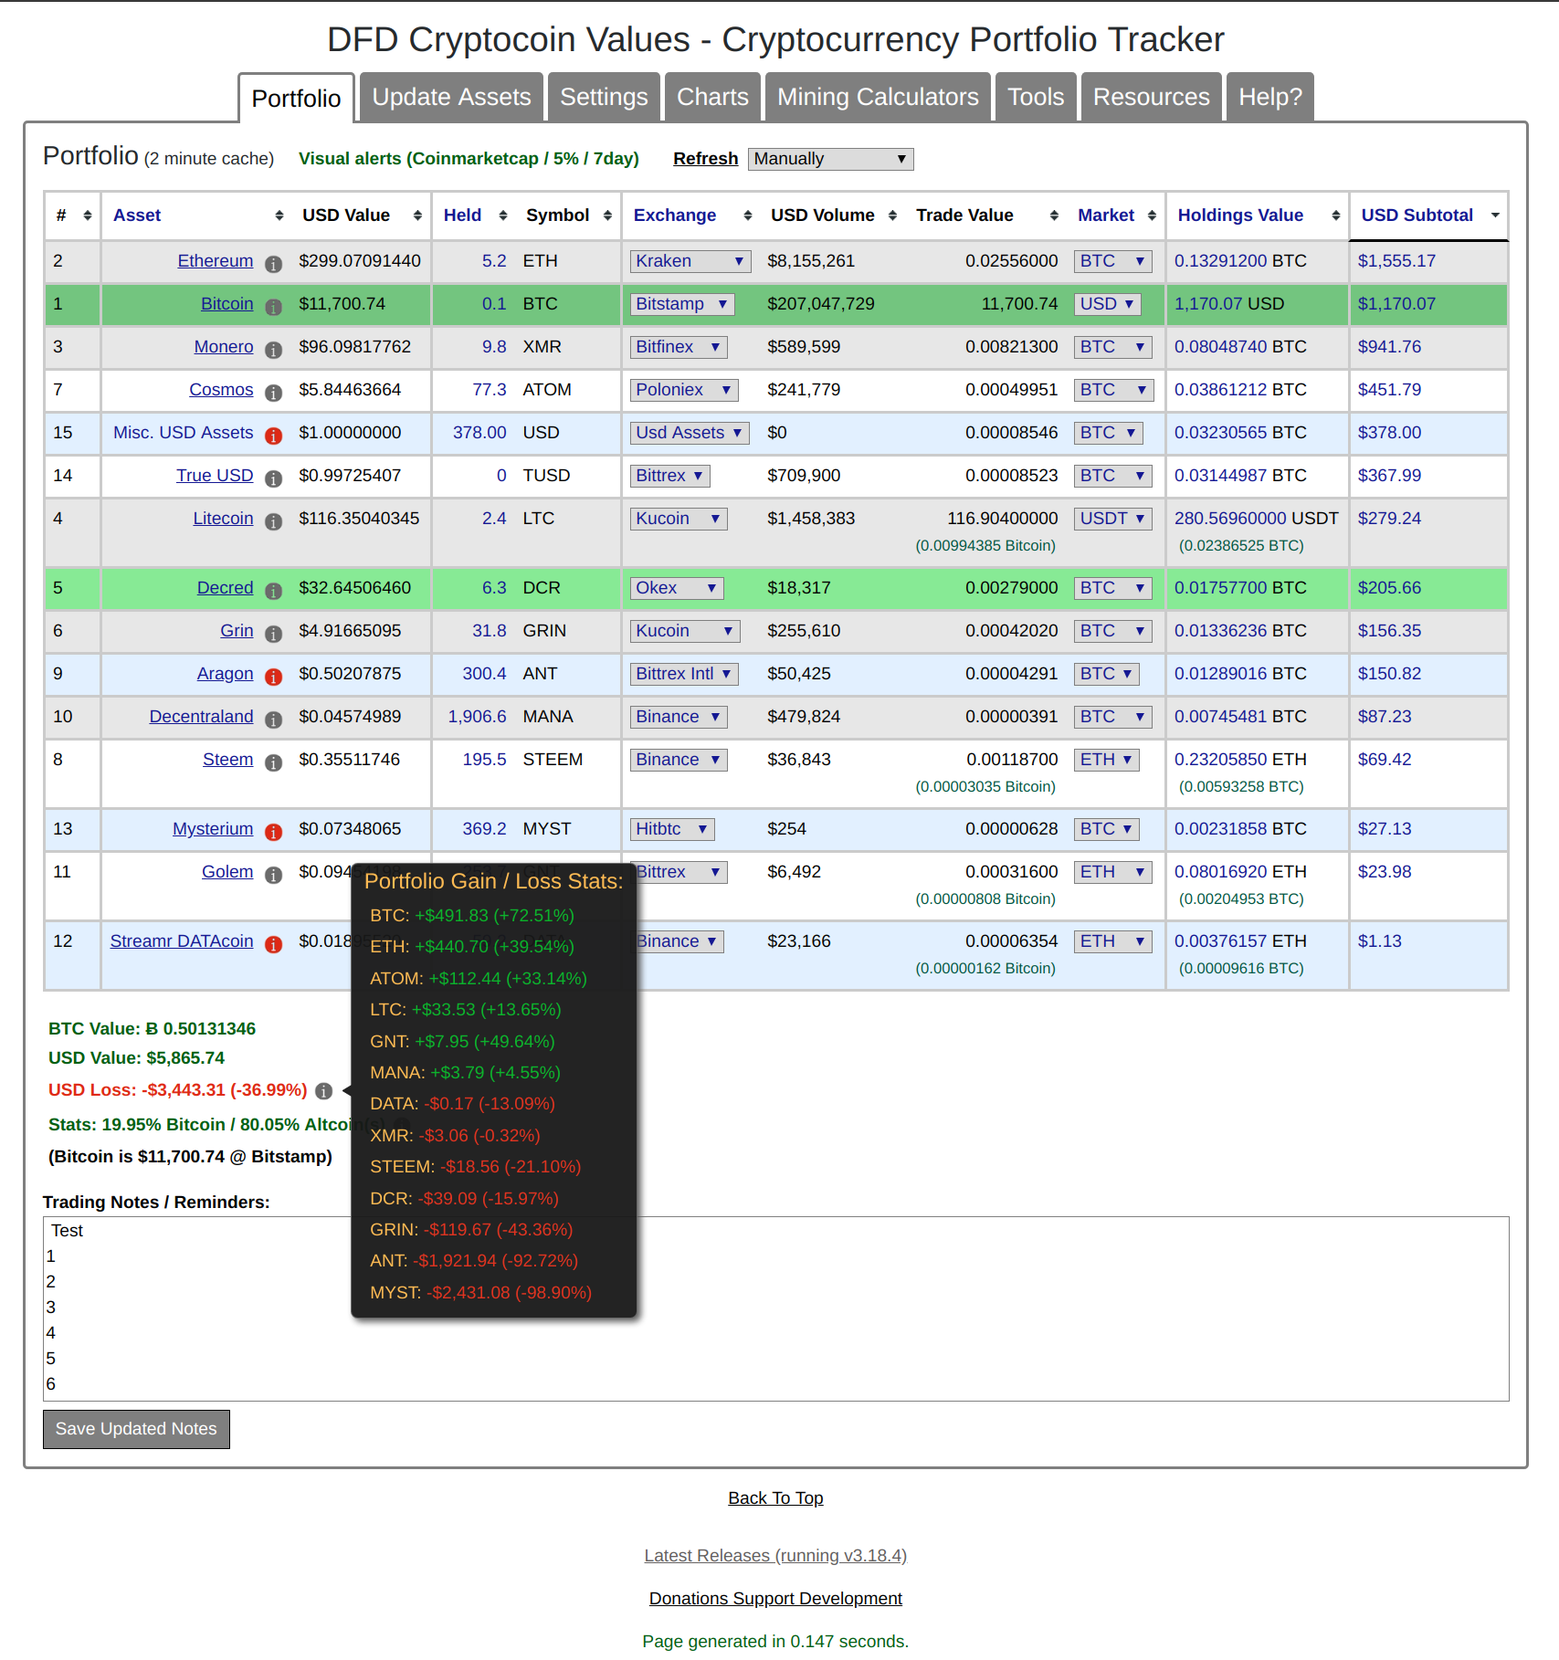
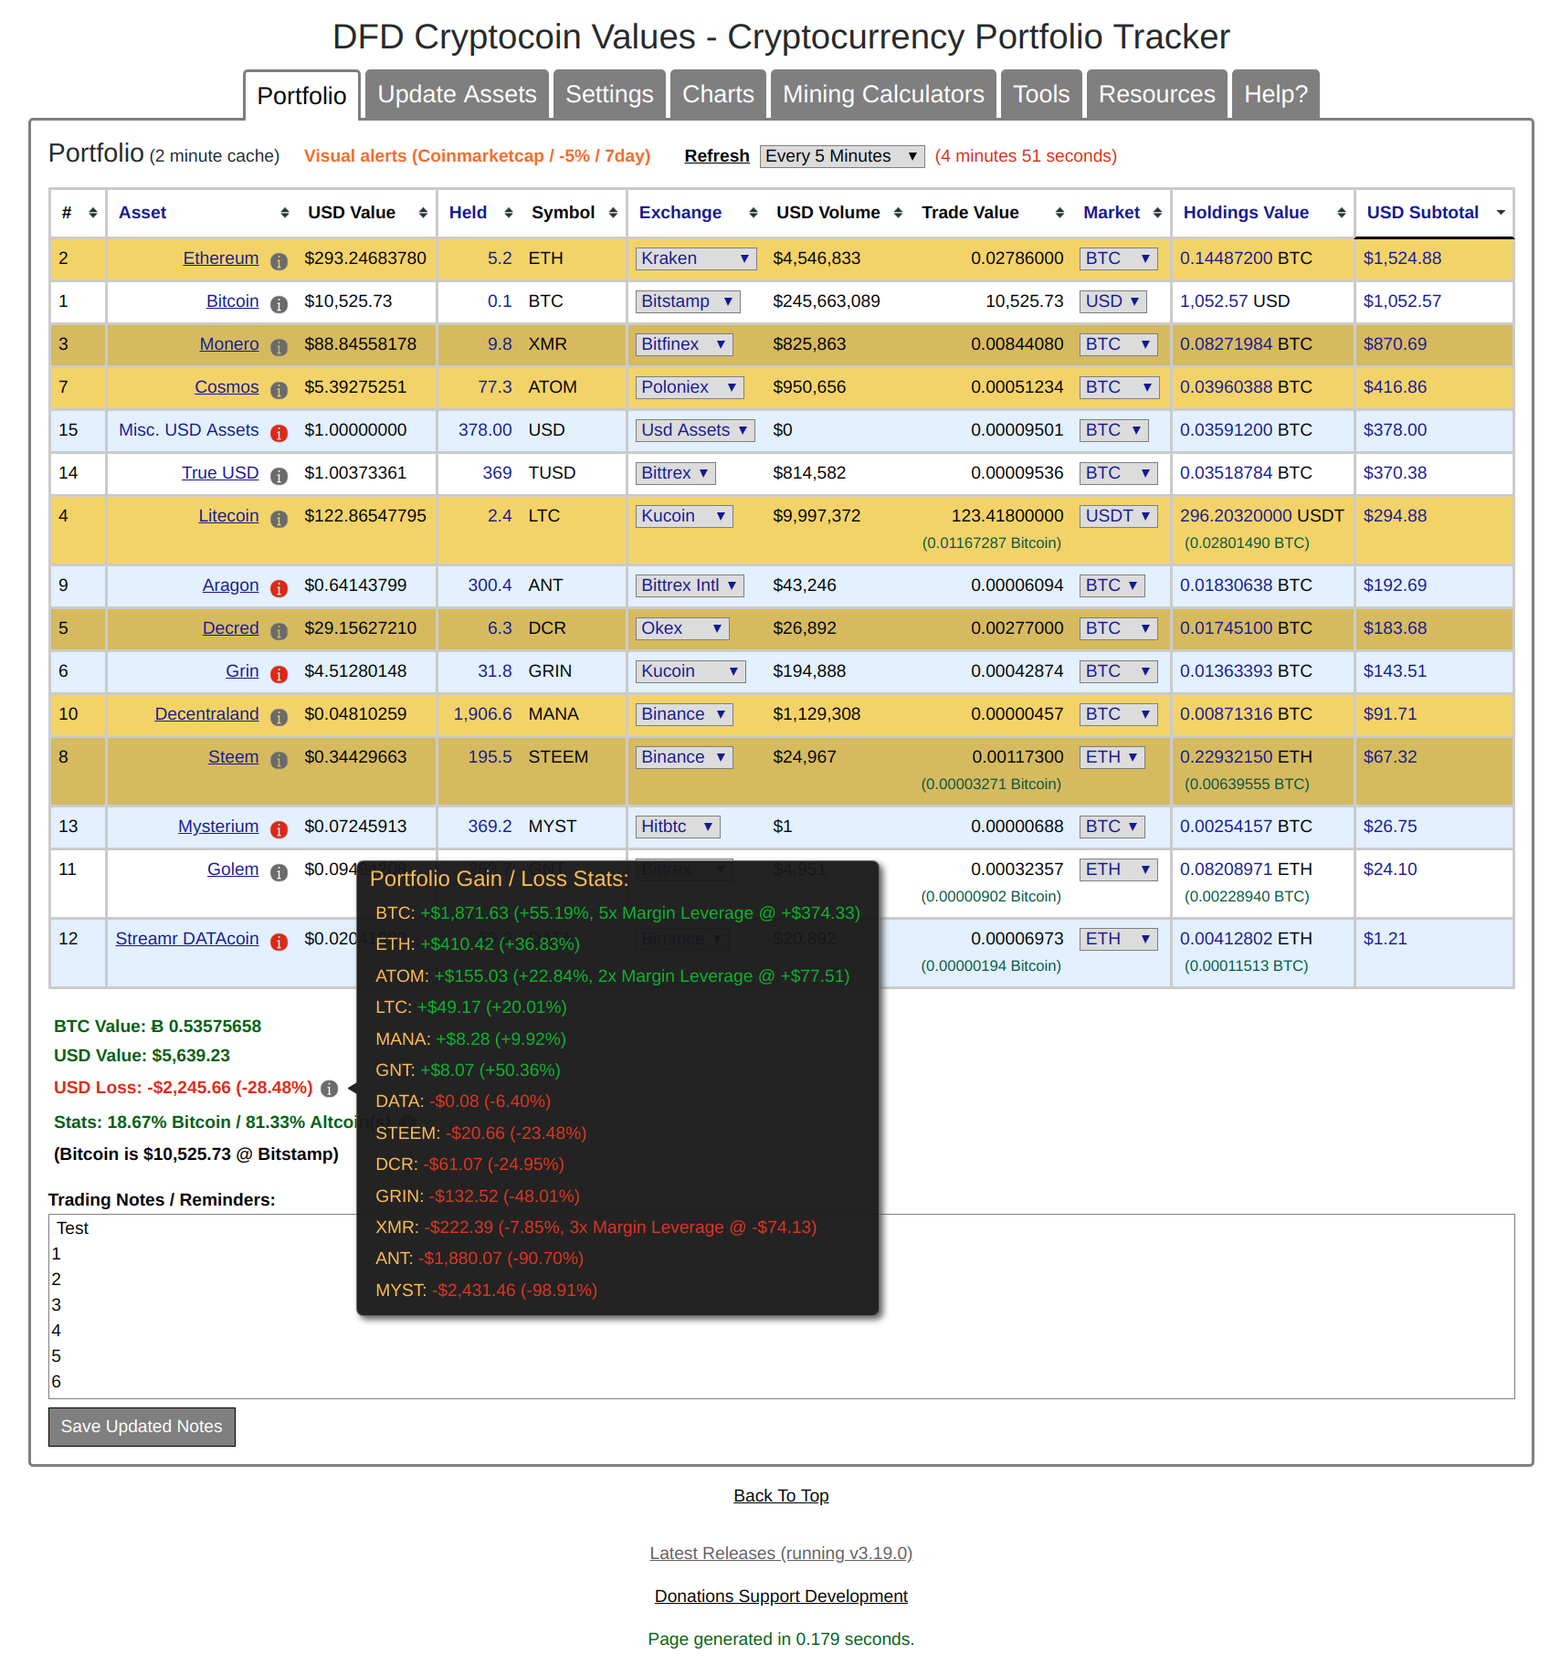
v3.19.0
-Local time configuration setting
-Timestamping for notifyme (alexa) alerts
-Margin leverage fields / calculations / stats

diff --git a/ui-templates/php/sections/portfolio.php b/ui-templates/php/sections/portfolio.php
@@ -76,10 +76,11 @@ if ( $_POST['submit_check'] == 1 || !$csv_import_fail && $_POST['csv_check'] == 
 										$selected_pairing = ($_POST[strtolower($coin_symbol).'_pairing']);
 										$selected_market = ($_POST[strtolower($coin_symbol).'_market'] - 1); // Avoided possible null equivelent issue by upping post value +1 in case zero, so -1 here
 										$purchase_price = remove_number_format($_POST[strtolower($coin_symbol).'_paid']);
+										$leverage_level = $_POST[strtolower($coin_symbol).'_leverage'];
 												
 						
 								
-										ui_coin_data($coins_list[$coin_symbol]['coin_name'], $coin_symbol, $value, $coins_list[$coin_symbol]['market_pairing'][$selected_pairing], $selected_pairing, $selected_market, $purchase_price);
+										ui_coin_data($coins_list[$coin_symbol]['coin_name'], $coin_symbol, $value, $coins_list[$coin_symbol]['market_pairing'][$selected_pairing], $selected_pairing, $selected_market, $purchase_price, $leverage_level);
 										
 											if ( $value >= 0.00000001 ) {
 											$assets_added = 1;
@@ -118,10 +119,11 @@ if ( $_POST['submit_check'] == 1 || !$csv_import_fail && $_POST['csv_check'] == 
 										$selected_pairing = $value[4];
 										$selected_market = $value[3] - 1; // Avoided possible null equivelent issue by upping post value +1 in case zero, so -1 here
 										$purchase_price = remove_number_format($value[2]);
+										$leverage_level = $_POST[strtolower($coin_symbol).'_leverage'];
 												
 						
 								
-										ui_coin_data($coins_list[$coin_symbol]['coin_name'], $coin_symbol, $held_amount, $coins_list[$coin_symbol]['market_pairing'][$selected_pairing], $selected_pairing, $selected_market, $purchase_price);
+										ui_coin_data($coins_list[$coin_symbol]['coin_name'], $coin_symbol, $held_amount, $coins_list[$coin_symbol]['market_pairing'][$selected_pairing], $selected_pairing, $selected_market, $purchase_price, $leverage_level);
 										
 											if ( $held_amount >= 0.00000001 ) {
 											$assets_added = 1;
@@ -198,6 +200,23 @@ if ( $_POST['submit_check'] == 1 || !$csv_import_fail && $_POST['csv_check'] == 
 		}
 	
 	
+	$all_coin_leverage_cookie_array = explode("#", $_COOKIE['coin_leverage']);
+	
+		if (is_array($all_coin_leverage_cookie_array) || is_object($all_coin_leverage_cookie_array)) {
+			
+					foreach ( $all_coin_leverage_cookie_array as $coin_leverage ) {
+									
+					$single_coin_leverage_cookie_array = explode("-", $coin_leverage);
+					
+					$coin_symbol = strtoupper(preg_replace("/_leverage/i", "", $single_coin_leverage_cookie_array[0]));
+					
+					$all_cookies_data_array[$coin_symbol.'_data'][$coin_symbol.'_leverage'] = $single_coin_leverage_cookie_array[1];
+					
+					}
+					
+		}
+	
+	
 		
 		
 	
@@ -224,9 +243,10 @@ if ( $_POST['submit_check'] == 1 || !$csv_import_fail && $_POST['csv_check'] == 
 					$selected_pairing = $all_cookies_data_array[$coin_symbol.'_data'][$coin_symbol.'_pairing'];
 					$selected_market = ($all_cookies_data_array[$coin_symbol.'_data'][$coin_symbol.'_market'] -1);
 					$purchase_price = floattostr($all_cookies_data_array[$coin_symbol.'_data'][$coin_symbol.'_paid']);
+					$leverage_level = $all_cookies_data_array[$coin_symbol.'_data'][$coin_symbol.'_leverage'];
 					
 			// Avoided possible null equivelent issue by upping post value +1 in case zero, so -1 here
-					ui_coin_data($coins_list[$coin_symbol]['coin_name'], $coin_symbol, $selected_amount, $coins_list[$coin_symbol]['market_pairing'][$selected_pairing], $selected_pairing, $selected_market, $purchase_price);
+					ui_coin_data($coins_list[$coin_symbol]['coin_name'], $coin_symbol, $selected_amount, $coins_list[$coin_symbol]['market_pairing'][$selected_pairing], $selected_pairing, $selected_market, $purchase_price, $leverage_level);
 					
 						
 						if ( $selected_amount >= 0.00000001 ) {
@@ -325,13 +345,17 @@ echo '<div class="show_coin_values bold_1 green">';
 				foreach ( $gain_loss_array as $key => $value ) {
 					
 						$parsed_gain_loss = preg_replace("/-/", "-$", number_format( $value['gain_loss'], 2, '.', ',' ) );
+						
+							if ( $value['coin_leverage'] >= 2 ) {
+							$parsed_before_leveraged = preg_replace("/-/", "-$", number_format( ( $value['gain_loss'] / $value['coin_leverage'] ) , 2, '.', ',' ) );
+							}
 		
 					$gain_loss_percent = ( ($value['coin_worth_total'] / $value['coin_paid_total']) - 1 ) * 100;
 					
 					
 						if ( $value['coin_paid'] != NULL ) {
 				?>
-			+'<p class="coin_info"><span class="yellow"><?=$value['coin_symbol']?>:</span> <span class="<?=( $value['gain_loss'] >= 0 ? 'green_bright">+$' : 'red">' )?><?=$parsed_gain_loss?> (<?=( $value['gain_loss'] >= 0 ? '+' : '' )?><?=number_format($gain_loss_percent, 2, '.', ',')?>%)</span></p>'
+			+'<p class="coin_info"><span class="yellow"><?=$value['coin_symbol']?>:</span> <span class="<?=( $value['gain_loss'] >= 0 ? 'green_bright">+$' : 'red">' )?><?=$parsed_gain_loss?> (<?=( $value['gain_loss'] >= 0 ? '+' : '' )?><?=number_format($gain_loss_percent, 2, '.', ',')?>%<?=( $value['coin_leverage'] >= 2 ? ', ' . $value['coin_leverage'] . 'x Margin Leverage @ ' . ( $value['gain_loss'] >= 0 ? '+$' : '' ) . $parsed_before_leveraged : '' )?>)</span></p>'
 			
 			<?php
 							}

diff --git a/ui-templates/php/sections/update-assets.php b/ui-templates/php/sections/update-assets.php
@@ -129,6 +129,7 @@
 	    $field_var_market = strtolower($coin_array_key) . '_market';
 	    $field_var_amount = strtolower($coin_array_key) . '_amount';
 	    $field_var_paid = strtolower($coin_array_key) . '_paid';
+	    $field_var_leverage = strtolower($coin_array_key) . '_leverage';
 	    $field_var_watchonly = strtolower($coin_array_key) . '_watchonly';
 	    $field_var_restore = strtolower($coin_array_key) . '_restore';
 	    
@@ -136,8 +137,9 @@
 	        if ( $_POST['submit_check'] == 1 ) {
 	        $coin_pairing_id = $_POST[$field_var_pairing];
 	        $coin_market_id = $_POST[$field_var_market];
-	        $coin_amount_value = $_POST[$field_var_amount];
-	        $coin_paid_value = $_POST[$field_var_paid];
+	        $coin_amount_value = remove_number_format($_POST[$field_var_amount]);
+	        $coin_paid_value = remove_number_format($_POST[$field_var_paid]);
+	        $coin_leverage_value = $_POST[$field_var_leverage];
 	        }
 	        elseif ( $run_csv_import == 1 ) {
 	        	
@@ -145,10 +147,11 @@
 	        		foreach( $csv_file_array as $key => $value ) {
 	        		
 	        			if ( strtoupper($coin_array_key) == strtoupper($key) ) {
-	        		 	$coin_pairing_id = $value[4];
-	        			$coin_market_id = $value[3];
+	        		 	$coin_pairing_id = $value[5];
+	        			$coin_market_id = $value[4];
 	        		 	$coin_amount_value = remove_number_format($value[1]);
 	       		 	$coin_paid_value = remove_number_format($value[2]);
+	       		 	$coin_leverage_value = $value[3];
 	       		 	}
 	        	
 	        		}
@@ -223,9 +226,9 @@
 		    
 		    $coin_symbol = strtoupper(preg_replace("/_amount/i", "", $single_coin_amounts_cookie_array[0]));  
 		    
-		    
+		    		// We don't need remove_number_format() for cookie data, because it was already done creating the cookies
 					if ( $coin_symbol == strtoupper($coin_array_key) ) {
-					$coin_amount_value = $single_coin_amounts_cookie_array[1];
+					$coin_amount_value = floattostr($single_coin_amounts_cookie_array[1]);
 					}
 		    
 		    
@@ -248,9 +251,35 @@
 		    $single_coin_paid_cookie_array = explode("-", $coin_paid);
 		    
 		    $coin_symbol = strtoupper(preg_replace("/_paid/i", "", $single_coin_paid_cookie_array[0]));  
+		    		
+		    		// We don't need remove_number_format() for cookie data, because it was already done creating the cookies
+					if ( $coin_symbol == strtoupper($coin_array_key) ) {
+					$coin_paid_value = floattostr($single_coin_paid_cookie_array[1]);
+					}
+		    
+		    
+		    }
+		    
+		}
+	        
+	        
+	        }
+	        
+	
+	        if ( !$run_csv_import && $_COOKIE['coin_leverage'] ) {
+	        
+	        $all_coin_leverage_cookie_array = explode("#", $_COOKIE['coin_leverage']);
+	        
+		if (is_array($all_coin_leverage_cookie_array) || is_object($all_coin_leverage_cookie_array)) {
+		    
+		    foreach ( $all_coin_leverage_cookie_array as $coin_leverage ) {
+		        
+		    $single_coin_leverage_cookie_array = explode("-", $coin_leverage);
+		    
+		    $coin_symbol = strtoupper(preg_replace("/_leverage/i", "", $single_coin_leverage_cookie_array[0]));  
 		    
 					if ( $coin_symbol == strtoupper($coin_array_key) ) {
-					$coin_paid_value = $single_coin_paid_cookie_array[1];
+					$coin_leverage_value = $single_coin_leverage_cookie_array[1];
 					}
 		    
 		    
@@ -418,7 +447,22 @@
 	     ' <?=( $raw_coin_amount_value > 0 && $raw_coin_amount_value <= '0.000000001' ? 'readonly' : '' )?> /> <span class='blue'><?=strtoupper($coin_array_key)?></span>, &nbsp; 
 			    
 			
-	     <b>Bought @ (per-token):</b> $<input type='text' size='8' id='<?=$field_var_paid?>' name='<?=$field_var_paid?>' value='<?=$coin_paid_value?>' />
+	     <b>Bought @ (per-token):</b> $<input type='text' size='8' id='<?=$field_var_paid?>' name='<?=$field_var_paid?>' value='<?=$coin_paid_value?>' /> 
+	     
+	     
+	     <b>Margin Leverage:</b> 
+	     
+	     <select name='<?=$field_var_leverage?>' id='<?=$field_var_leverage?>'>
+	     <option value='0' <?=( $coin_leverage_value == 0 ? 'selected' : '' )?>> None </option>
+	     <option value='2' <?=( $coin_leverage_value == 2 ? 'selected' : '' )?>> 2x </option>
+	     <option value='3' <?=( $coin_leverage_value == 3 ? 'selected' : '' )?>> 3x </option>
+	     <option value='4' <?=( $coin_leverage_value == 4 ? 'selected' : '' )?>> 4x </option>
+	     <option value='5' <?=( $coin_leverage_value == 5 ? 'selected' : '' )?>> 5x </option>
+	     <option value='10' <?=( $coin_leverage_value == 10 ? 'selected' : '' )?>> 10x </option>
+	     <option value='25' <?=( $coin_leverage_value == 25 ? 'selected' : '' )?>> 25x </option>
+	     <option value='50' <?=( $coin_leverage_value == 50 ? 'selected' : '' )?>> 50x </option>
+	     <option value='100' <?=( $coin_leverage_value == 100 ? 'selected' : '' )?>> 100x </option>
+	     </select>
 	     
 	     
 	     <input type='hidden' id='<?=$field_var_restore?>' name='<?=$field_var_restore?>' value='<?=( $raw_coin_amount_value > 0 && $raw_coin_amount_value <= '0.000000001' ? '' : $coin_amount_value )?>' />

diff --git a/download.php b/download.php
@@ -25,8 +25,9 @@ $example_download_array[] = array(
 	        							'Asset Symbol',
 	        							'Amount Held',
 	        							'USD Purchase Price (per-token)',
+	        							'Margin Leverage',
 	        							'Market ID (Exchange)',
-	        							'btc'
+	        							'Base Pairing'
 	        							);
 	        
 // BTC
@@ -34,6 +35,7 @@ $example_download_array[] = array(
 	        							'BTC',
 	        							'0.00123',
 	        							'11,500.25',
+	        							'0',
 	        							'1',
 	        							'btc'
 	        							);		
@@ -43,6 +45,7 @@ $example_download_array[] = array(
 	        							'LTC',
 	        							'7.255',
 	        							'120.50',
+	        							'0',
 	        							'1',
 	        							'btc'
 	        							);			
@@ -52,6 +55,7 @@ $example_download_array[] = array(
 	        							'GRIN',
 	        							'45.755',
 	        							'2.25',
+	        							'0',
 	        							'1',
 	        							'btc'
 	        							);	
@@ -61,6 +65,7 @@ $example_download_array[] = array(
 	        							'USD',
 	        							'80.15',
 	        							'',
+	        							'0',
 	        							'1',
 	        							'btc'
 	        							);							
@@ -97,6 +102,7 @@ $csv_download_array[] = array(
 	        							'Asset Symbol',
 	        							'Amount Held',
 	        							'USD Purchase Price (per-token)',
+	        							'Margin Leverage',
 	        							'Market ID (Exchange)',
 	        							'Base Pairing'
 	        							);
@@ -109,6 +115,7 @@ $csv_download_array[] = array(
 	    $field_var_market = strtolower($coin_array_key) . '_market';
 	    $field_var_amount = strtolower($coin_array_key) . '_amount';
 	    $field_var_paid = strtolower($coin_array_key) . '_paid';
+	    $field_var_leverage = strtolower($coin_array_key) . '_leverage';
 	    $field_var_watchonly = strtolower($coin_array_key) . '_watchonly';
 	    $field_var_restore = strtolower($coin_array_key) . '_restore';
 	    
@@ -118,6 +125,7 @@ $csv_download_array[] = array(
 	    $coin_market_id = $_POST[$field_var_market];
 	    $coin_amount_value = $_POST[$field_var_amount];
 	    $coin_paid_value = $_POST[$field_var_paid];
+	    $coin_leverage_value = $_POST[$field_var_leverage];
 	        	
 	        
 	    $selected_pairing = ( $coin_pairing_id ? $coin_pairing_id : 'btc' );
@@ -187,6 +195,7 @@ $csv_download_array[] = array(
 	        											strtoupper($coin_array_key),
 	        											$coin_amount_value,
 	        											$coin_paid_value,
+	        											$coin_leverage_value,
 	        											$coin_market_id,
 	        											$selected_pairing
 	        											);

diff --git a/app-lib/php/functions/general.php b/app-lib/php/functions/general.php
@@ -319,7 +319,7 @@ return $date;
 ////////////////////////////////////////////////////////
 
 
-function store_all_cookies($set_coin_values, $set_pairing_values, $set_market_values, $set_paid_values) {
+function store_all_cookies($set_coin_values, $set_pairing_values, $set_market_values, $set_paid_values, $set_leverage_values) {
 
 
            // Cookies expire in 1 year (31536000 seconds)
@@ -346,6 +346,7 @@ function store_all_cookies($set_coin_values, $set_pairing_values, $set_market_va
            store_cookie_contents("coin_pairings", $set_pairing_values, mktime()+31536000);
            store_cookie_contents("coin_markets", $set_market_values, mktime()+31536000);
            store_cookie_contents("coin_paid", $set_paid_values, mktime()+31536000);
+           store_cookie_contents("coin_leverage", $set_leverage_values, mktime()+31536000);
            
            
            
@@ -362,7 +363,8 @@ function delete_all_cookies() {
   store_cookie_contents("coin_amounts", "", time()-3600);  
   store_cookie_contents("coin_pairings", "", time()-3600);  
   store_cookie_contents("coin_markets", "", time()-3600);   
-  store_cookie_contents("coin_paid", "", time()-3600);  
+  store_cookie_contents("coin_paid", "", time()-3600);    
+  store_cookie_contents("coin_leverage", "", time()-3600);  
   store_cookie_contents("coin_reload", "", time()-3600);  
   store_cookie_contents("alert_percent", "", time()-3600); 
   store_cookie_contents("notes_reminders", "", time()-3600);   
@@ -374,6 +376,7 @@ function delete_all_cookies() {
   unset($_COOKIE['coin_pairings']); 
   unset($_COOKIE['coin_markets']); 
   unset($_COOKIE['coin_paid']); 
+  unset($_COOKIE['coin_leverage']); 
   unset($_COOKIE['coin_reload']);  
   unset($_COOKIE['alert_percent']);  
   unset($_COOKIE['notes_reminders']);

diff --git a/app-lib/php/other/cookies.php b/app-lib/php/other/cookies.php
@@ -80,6 +80,17 @@ elseif ( $_POST['submit_check'] == 1 && $_POST['use_cookies'] == 1 || $run_csv_i
       }
    
   
+      if ( preg_match("/_leverage/i", $key) ) {
+      
+      $_POST[$key] = strip_price_formatting($value);
+      
+         if ( isset($_POST[$key]) ) {
+            $set_leverage_values .= $key.'-'. $_POST[$key] . '#';
+         }
+      
+      }
+   
+  
    }
   
  
@@ -116,13 +127,15 @@ elseif ( $_POST['submit_check'] == 1 && $_POST['use_cookies'] == 1 || $run_csv_i
 	    
 	     $compat_key = strtolower($key);
 	     	
-	     $set_pairing_values .= $compat_key . '_pairing-' . $value[4] . '#';
+	     $set_pairing_values .= $compat_key . '_pairing-' . $value[5] . '#';
 	     
-		  $set_market_values .= $compat_key . '_market-' . $value[3] . '#';
+		  $set_market_values .= $compat_key . '_market-' . $value[4] . '#';
 		  
 	     $set_coin_values .= $compat_key . '_amount-' . remove_number_format($value[1]) . '#';
 	     
 	     $set_paid_values .= $compat_key . '_paid-' . remove_number_format($value[2]) . '#';
+	     
+	     $set_leverage_values .= $compat_key . '_leverage-' . $value[3] . '#';
 	     
 	     
 	   }
@@ -134,7 +147,7 @@ elseif ( $_POST['submit_check'] == 1 && $_POST['use_cookies'] == 1 || $run_csv_i
 
 // Store all cookies and redirect to app URL, to clear any POST data from any future page refreshing
 $set_coin_values = ( $set_coin_values != NULL ? $set_coin_values : ' ' ); // Initialized with some whitespace when blank
-store_all_cookies($set_coin_values, $set_pairing_values, $set_market_values, $set_paid_values);
+store_all_cookies($set_coin_values, $set_pairing_values, $set_market_values, $set_paid_values, $set_leverage_values);
 header("Location: " . start_page($_GET['start_page'])); // Preserve any start page data
 exit;
  	

diff --git a/app-lib/php/functions/asset-data.php b/app-lib/php/functions/asset-data.php
@@ -812,7 +812,7 @@ return TRUE;
 ////////////////////////////////////////////////////////
 
 
-function ui_coin_data($coin_name, $trade_symbol, $coin_amount, $market_pairing_array, $selected_pairing, $selected_market, $purchase_price=NULL) {
+function ui_coin_data($coin_name, $trade_symbol, $coin_amount, $market_pairing_array, $selected_pairing, $selected_market, $purchase_price=NULL, $leverage_level) {
 
 global $_POST, $coins_list, $btc_exchange, $marketcap_site, $marketcap_cache, $alert_percent, $marketcap_ranks_max, $api_timeout;
 
@@ -997,9 +997,10 @@ $market_pairing = $all_markets[$selected_market];
     $_SESSION['gain_loss_array'][] = array(
     													'coin_symbol' => $trade_symbol, 
     													'coin_paid' => $purchase_price,
+    													'coin_leverage' => $leverage_level,
     													'coin_paid_total' => $coin_paid_total_raw,
     													'coin_worth_total' => $coin_usd_worth_raw,
-    													'gain_loss' => $gain_loss,
+    													'gain_loss' => ( $leverage_level >= 2 ? ($gain_loss * $leverage_level) : $gain_loss ),
     													);
     
 	 }

diff --git a/config.php b/config.php
@@ -236,7 +236,7 @@ $asset_charts_and_alerts = array(
 					'steem-3' => 'binance||btc||both',
 					
 					// ANT
-					'ant' => 'bittrex_intl||btc||both',
+					'ant' => 'bittrex_intl||btc||chart',
 					'ant-2' => 'hitbtc||btc||chart',
 					'ant-3' => 'ethfinex||btc||chart',
 					
